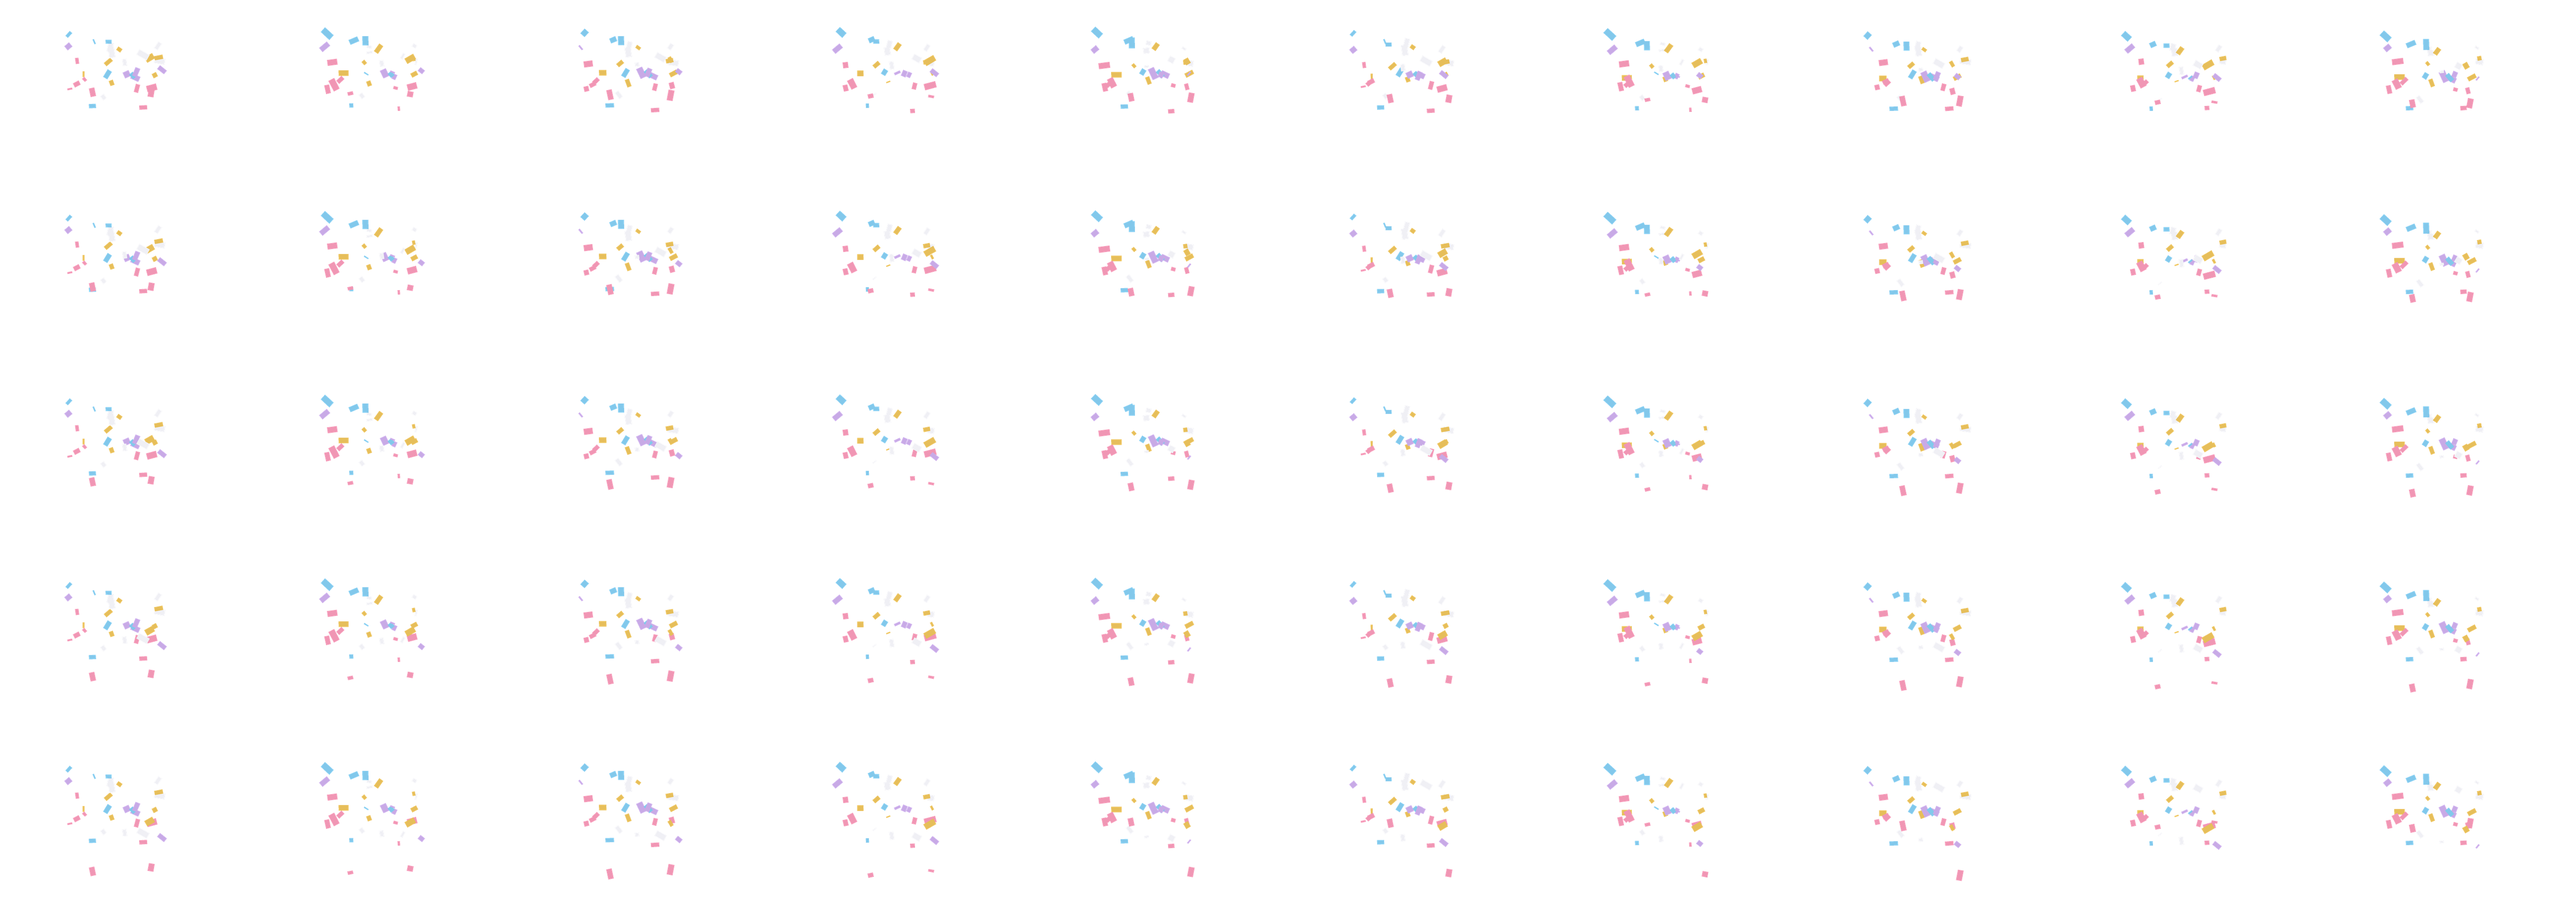
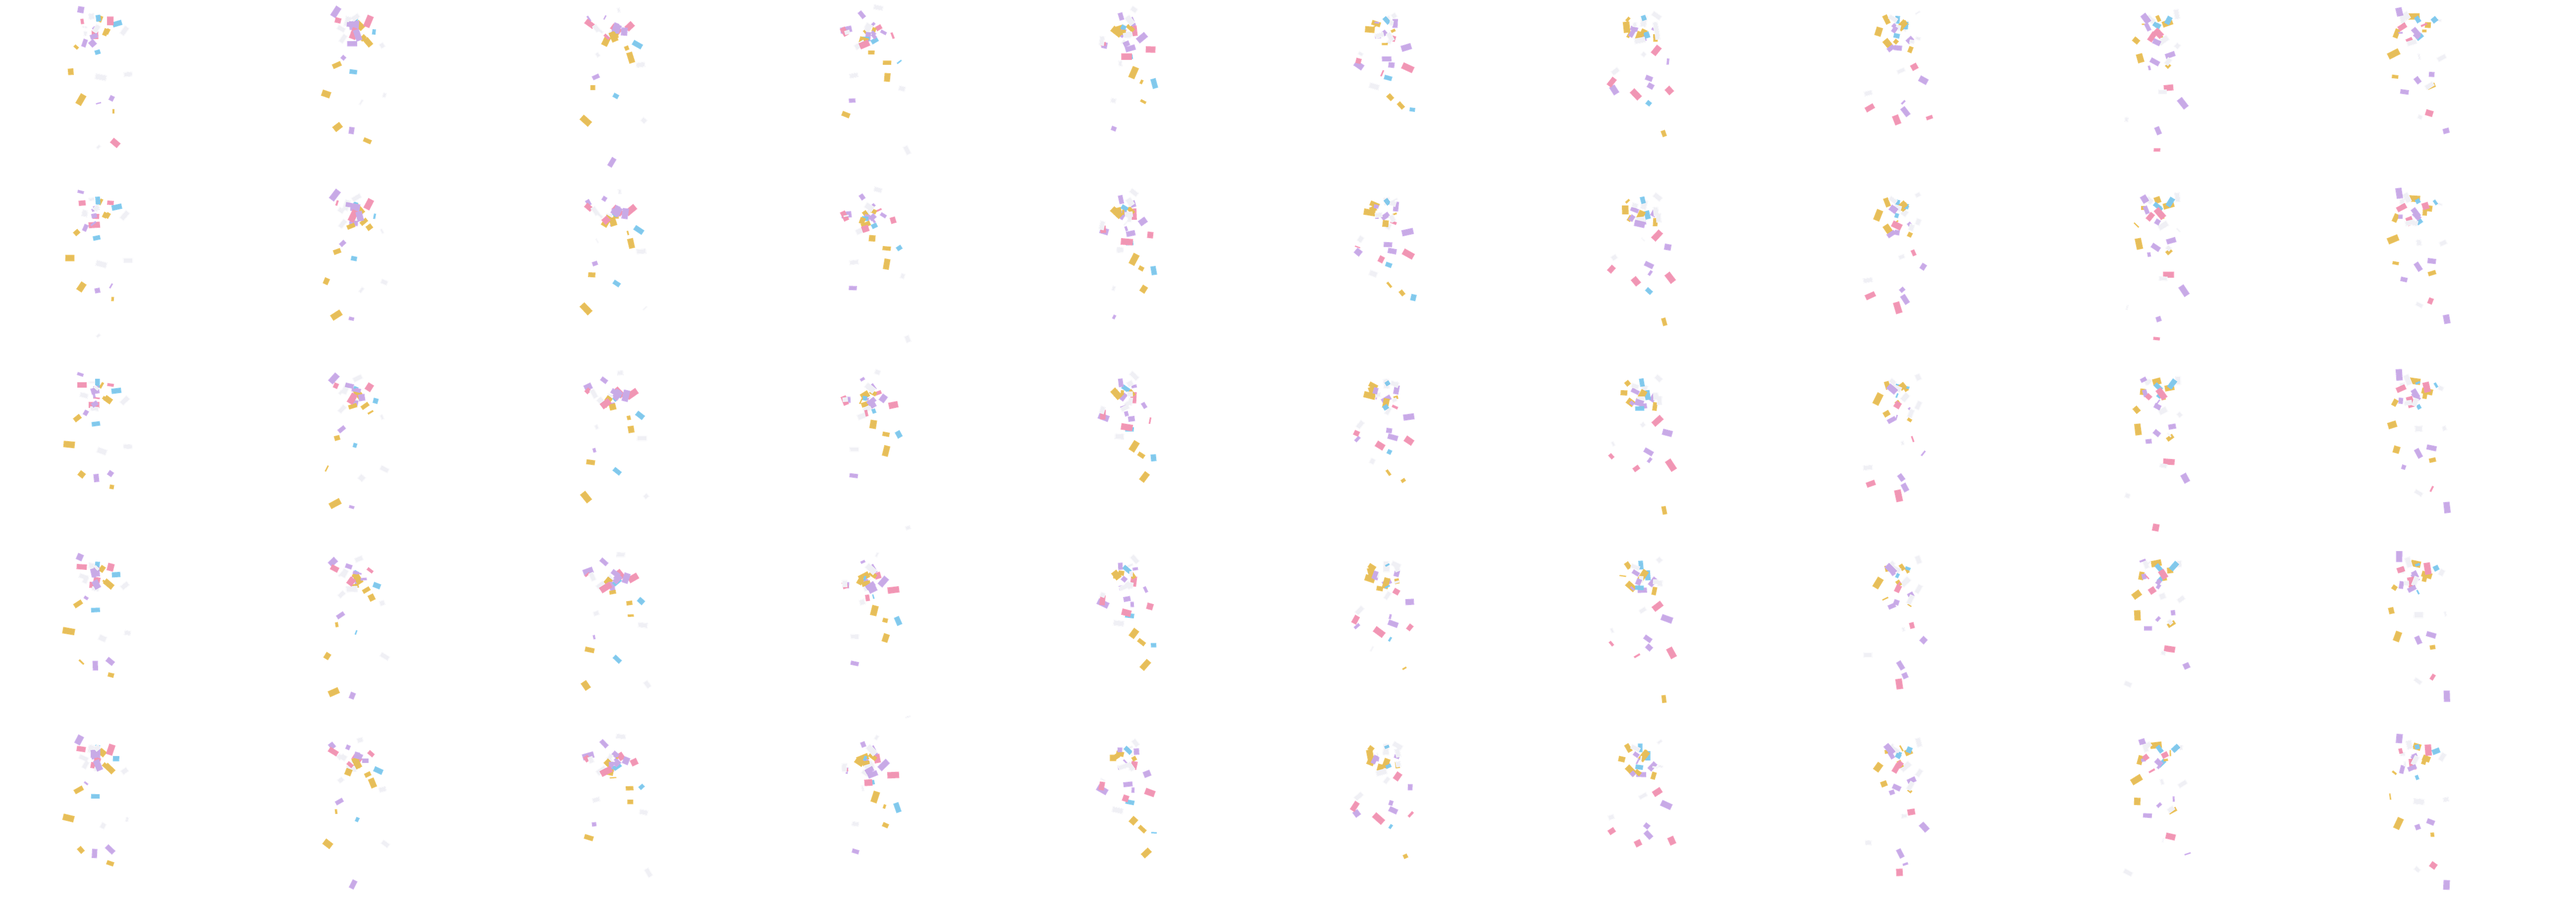
紙ふぶきと曲を決めたときの枠を TaikøNauts に合わせた
- 紙ふぶきの画像のコマを「縦に読む」ようにした（横に読んでいて、紙がバラバラに速く飛び回っていた）
- 紙ふぶきを扇と文字の後ろに描く・場所を (560,200)/(1332,200) に・出る時間を 67コマ目に
- Simple の Confetti.png を縦に読む並びで作り直した（はじけて落ちる動き）
- 曲を決めたとき、白くなった枠を 0.65秒で消す。一覧が消えるのを 0.70〜0.93秒に

Claude-Session: https://claude.ai/code/session_01DAU9tpBiF8CGAJXqk8DqYG

diff --git a/TaikoSim/Scenes/PlayEnd.cs b/TaikoSim/Scenes/PlayEnd.cs
@@ -24,7 +24,7 @@ namespace TaikoSim.Scenes
         private const string FullComboImage = Dir + "FullCombo_Text.png";          // 800×200 が縦2段(上:色 下:真っ白)
         private const string DondaImage = Dir + "DondaFullCombo_Text.png";         // 1000×200 が縦2段(上:色 下:真っ白)
         private const string DondaBackImage = Dir + "DondaFullCombo_Background.png"; // 1422×240
-        private const string ConfettiImage = Dir + "Confetti.png";                 // 520×368 が横10・縦5(50コマ)
+        private const string ConfettiImage = Dir + "Confetti.png";                 // 520×368 が横10・縦5(50コマ。縦に読む)
         private const string StarImage = Dir + "Star.png";                         // 64×64
 
         // 演出が始まってから暗くなり始めるまでの時間(TaikøNauts の動画で 6.9秒。クリア失敗・クリア成功とも同じ)
@@ -47,7 +47,8 @@ namespace TaikoSim.Scenes
         private const float BackX = 498f, BackY = 288f;   // ドンダフルコンボの背景(レーンの中を覆う)
         private const float FanLeftX = 556f, FanRightX = 1503f, FanY = 297f;
         private const float FanWidth = 350f, FanHeight = 220f;
-        private const float ConfettiLeftX = 525f, ConfettiRightX = 1367f, ConfettiY = 162f; // 仮(紙ふぶきが扇の上の方に出るように)
+        // 紙ふぶきのコマの左上(TaikøNauts の動画 10/29 A.mp4 を A-Style の画像と重ねて測った。右はレーンの真ん中 x=1206 で左右対称)
+        private const float ConfettiLeftX = 560f, ConfettiRightX = 1332f, ConfettiY = 200f;
         private const float ConfettiWidth = 520f, ConfettiHeight = 368f;
 
         // ===== 動き(動画のコマ) =====
@@ -103,7 +104,7 @@ namespace TaikoSim.Scenes
         private const float FanFrame = 42f;         // 扇が(閉じた形で)出て、44コマ目から1コマずつ開く
         private const float FanOpenFrame = 44f;
         private const float StarFrame = 45f;        // きらきら
-        private const float ConfettiFrame = 58f;    // 紙ふぶき
+        private const float ConfettiFrame = 67f;    // 紙ふぶき(大きい文字が出てから 0.85秒)
         private const float CharaLeaveFrame = 59f;  // ドンダ：飛んでいったキャラが着物のキャラに変わる
 
         public bool Started { get; private set; }
@@ -140,6 +141,8 @@ namespace TaikoSim.Scenes
             bool donda = Result == PlayResult.DondaFullCombo;
 
             if (donda) DrawImage(DondaBackImage, BackX, BackY, Fade(f, BackFrame, BackFadeFrames));
+            // 紙ふぶきは、扇と文字の後ろ(TaikøNauts：扇より上に飛んだ紙だけが見える)
+            if (donda && f >= ConfettiFrame) DrawConfetti(f);
             if (big) DrawFans(f);
 
             // 「クリア成功」「クリア失敗」(フルコンボ・ドンダのときは、大きい文字が出るときに消える)
@@ -153,7 +156,6 @@ namespace TaikoSim.Scenes
 
             if (big) DrawBigText(donda ? DondaImage : FullComboImage, donda ? DondaX : FullComboX,
                 donda ? DondaY : FullComboY, donda ? 1000f : 800f, f);
-            if (donda && f >= ConfettiFrame) DrawConfetti(f);
             if (Result != PlayResult.Failed && f >= StarFrame) DrawStars(f, big);
 
             DrawCharacters(f);
@@ -236,11 +238,14 @@ namespace TaikoSim.Scenes
         }
 
         // 紙ふぶき(50コマを30fpsでくり返す)。右は左右反転
+        //   コマは「縦に読む」(0〜4 コマ目が1列目の上から下、5 コマ目から2列目)
+        //   A-Style の画像で、上下のコマは形がつながっていて、左右のコマはつながっていなかった
+        //   (前は横に読んでいたので、紙がバラバラに飛び回って、速く・多く見えていた)
         private static void DrawConfetti(float f)
         {
             if (SkinManager.GetTexture(ConfettiImage) is not Texture2D tex) return;
             int frame = (int)(f - ConfettiFrame) % 50;
-            float sx = frame % 10 * ConfettiWidth, sy = frame / 10 * ConfettiHeight;
+            float sx = frame / 5 * ConfettiWidth, sy = frame % 5 * ConfettiHeight;
             float alpha = Fade(f, ConfettiFrame, 3f);
             DrawCell(tex, sx, sy, ConfettiWidth, ConfettiHeight, ConfettiLeftX, ConfettiY, alpha);
             DrawCell(tex, sx, sy, ConfettiWidth, ConfettiHeight, ConfettiRightX, ConfettiY, alpha, flipX: true);

diff --git a/tools/skin-gen/endres.py b/tools/skin-gen/endres.py
@@ -106,40 +106,36 @@ def fans():
     c.save(E + 'Fan.png')
 
 def confetti():
-    # A-Style と同じ動き方：セルの左上(x 90〜420, y 40〜330)にかたまって、その場でひらひら揺れる
-    #   ・揺れは10コマで1周(A-Style のセルも10コマごとにほぼ同じ形)
-    #   ・50コマかけて、少しずつ下へずれる(50コマ目で頭に戻る)
-    #   ・何枚かは、かたまりから離れて下の方へ落ちていく
+    # 紙ふぶき(520×368 のコマが 横10・縦5 で 50コマ)
+    #   コマの順番は「縦に読む」：0〜4 コマ目が1列目の上から下、5〜9 コマ目が2列目…(TaikøNauts の Confetti.png と同じ並び)
+    #   (10/29 に A-Style の画像を調べて分かった。横に読むと、となりのコマと形がまったくつながらない)
+    #   動き：コマの (190, 90) あたりから、上と横へはじけて、ひらひら回りながら落ちる。50コマ(30fpsで1.67秒)でつながってくり返す
+    #   プログラムは扇と文字の「後ろ」に描くので、扇より上に飛んだ紙だけが見える(TaikøNauts と同じ)
     rnd = random.Random(21)
     W, H = 520, 368
     cols = [(230, 190, 90), (240, 240, 245), (200, 170, 230), (130, 200, 235), (240, 150, 180)]
     pieces = []
-    for i in range(34):
-        stray = i >= 28  # 離れて落ちる紙
-        bx = rnd.uniform(120, 330) if not stray else rnd.uniform(150, 380)
-        by = rnd.gauss(150, 45) if not stray else rnd.uniform(90, 200)
-        by = min(max(by, 55), 260)
-        pieces.append(dict(x=bx, y=by, ph=rnd.uniform(0, 2 * math.pi), spin=rnd.uniform(0, 2 * math.pi),
-                           sw=rnd.uniform(4, 9), size=rnd.uniform(7, 11), col=rnd.choice(cols), stray=stray,
-                           fall=rnd.uniform(1.6, 2.6)))
+    for i in range(30):
+        pieces.append(dict(birth=i * 50 / 30 + rnd.uniform(0, 1.5), vx=rnd.uniform(-2.6, 3.4), vy=rnd.uniform(-7.5, -3.5),
+                           ph=rnd.uniform(0, 2 * math.pi), spin=rnd.uniform(0.25, 0.5), sw=rnd.uniform(3, 7),
+                           size=rnd.uniform(7, 11), col=rnd.choice(cols)))
+    G = 0.36       # 1コマごとに下へ速くなる量(px)
+    DRAG = 0.965   # 横の速さは少しずつ落ちる
     c = Canvas(W * 10, H * 5)
     for f in range(50):
-        ox, oy = (f % 10) * W, (f // 10) * H
-        t = f / 10 * 2 * math.pi            # 10コマで1周
-        drift = f * 0.3                     # 50コマで15px下へ
+        ox, oy = (f // 5) * W, (f % 5) * H   # 縦に読む
         for p in pieces:
-            xx = p['x'] + math.sin(t + p['ph']) * p['sw']
-            yy = p['y'] + math.cos(t * 1 + p['ph'] * 1.3) * p['sw'] * 0.6 + drift
-            if p['stray']:
-                yy = p['y'] + (f * p['fall']) % 110
-                xx = p['x'] + math.sin(t + p['ph']) * 10
-            if yy > 330:
+            age = (f - p['birth']) % 50
+            vx = p['vx'] * (1 - DRAG ** age) / (1 - DRAG)
+            xx = 190 + vx + math.sin(age * 0.35 + p['ph']) * p['sw']
+            yy = 90 + p['vy'] * age + 0.5 * G * age * age
+            if yy > H - 20 or not (10 < xx < W - 10):
                 continue
-            ang = p['spin'] + t * 2           # くるくる回る(横幅が変わって見える)
+            ang = p['ph'] + age * p['spin']   # くるくる回る(横幅が変わって見える)
             sz = p['size']
             w2 = sz * abs(math.cos(ang)) + 1.2
             h2 = sz * 0.6
-            tilt = p['ph']
+            tilt = p['ph'] + age * 0.08
             pts = []
             for dx, dy in ((-w2, -h2), (w2, -h2), (w2, h2), (-w2, h2)):
                 rx = dx * math.cos(tilt) - dy * math.sin(tilt)

diff --git a/TaikoSim/Scenes/SongSelectScene.cs b/TaikoSim/Scenes/SongSelectScene.cs
@@ -121,7 +121,9 @@ namespace TaikoSim.Scenes
         private readonly Random random = new();
 
         // ===== 決定 → 難易度の板(決定した時を0秒として。TaikøNauts を測った値) =====
-        private const float ListFadeStart = 0.75f, ListFadeEnd = 0.92f;   // 一覧が消える
+        //   (10/29 の A.mp4 を 1/60秒ずつ：69.15秒に決定 → 枠の点滅 → 0.53秒から白 → 0.65秒で枠が消える → 0.70〜0.93秒で一覧が消える)
+        private const float FrameHideAt = 0.65f;                          // 白くなった枠が消える
+        private const float ListFadeStart = 0.70f, ListFadeEnd = 0.93f;   // 一覧が消える
         private const float PanelInStart = 1.25f, PanelInEnd = 1.58f;     // 難易度の板が出る
         private const float MarkerAt = 1.7f;                   // 1P の印が出る
 
@@ -1005,7 +1007,7 @@ namespace TaikoSim.Scenes
                     if (selectedItem.Kind == Kind.Genre && !flipOpened) DrawGenrePop(selectedItem, sel, alpha * flip.Others, force: true);
                     return;
                 }
-                list.DrawFrame(sel, alpha);
+                if (!(diffOpen && diffTime >= FrameHideAt)) list.DrawFrame(sel, alpha); // 曲を決めたときは、白くなった枠が 0.65秒で消える
                 DrawBar(selectedItem, sel, list.Expand, alpha, list.FrameShown);
                 if (selectedItem.Kind == Kind.Genre) DrawGenrePop(selectedItem, sel, alpha);
             }

diff --git a/AGENTS.md b/AGENTS.md
@@ -264,6 +264,12 @@ python sounds.py      # 音（ffmpeg が必要）
   - TaikøNauts のヒントの画像の名前は `Background_Light..png`（点が2つ）。`Background_Light.png` が無ければそっちを読む
   - Simple は `tools/skin-gen/loading.py` で作った（落ち着いた虹色のしま・太鼓の絵・ヒントの文字）
 
+- ドンダフルコンボの紙ふぶき（`PlayEnd.DrawConfetti`）
+  - `Confetti.png`（520×368 が横10・縦5）のコマは **縦に読む**（0〜4 が1列目の上から下）。A-Style の画像で、上下のコマは形がつながっていて、左右はつながっていなかった
+  - 扇と文字の **後ろ** に描く（TaikøNauts：扇より上に飛んだ紙だけが見える）。コマの左上は左 (560, 200)・右 (1332, 200)（右は左右反転）、大きい文字から 0.85秒後（67コマ目）から
+  - Simple の `Confetti.png` も縦に読む並びで作り直した（`tools/skin-gen/endres.py` の `confetti()`。はじけて落ちる動き）
+- 曲を決めたとき：枠は 0.53秒で白 → **0.65秒で消える** → 0.70〜0.93秒で一覧が消える（A.mp4 の 69.15秒〜を 1/60秒ずつ）
+
 ### これからやること（たけらいと話していたもの）
 - A-Style の選曲画面の第2段：検索・オプションの板・鬼→裏の切り替えアニメ（`Oni_Transition.png`）・自己ベスト・王冠
 - モード選択の A-Style 対応（TaikøNauts のフォルダ名を教えてもらう）
